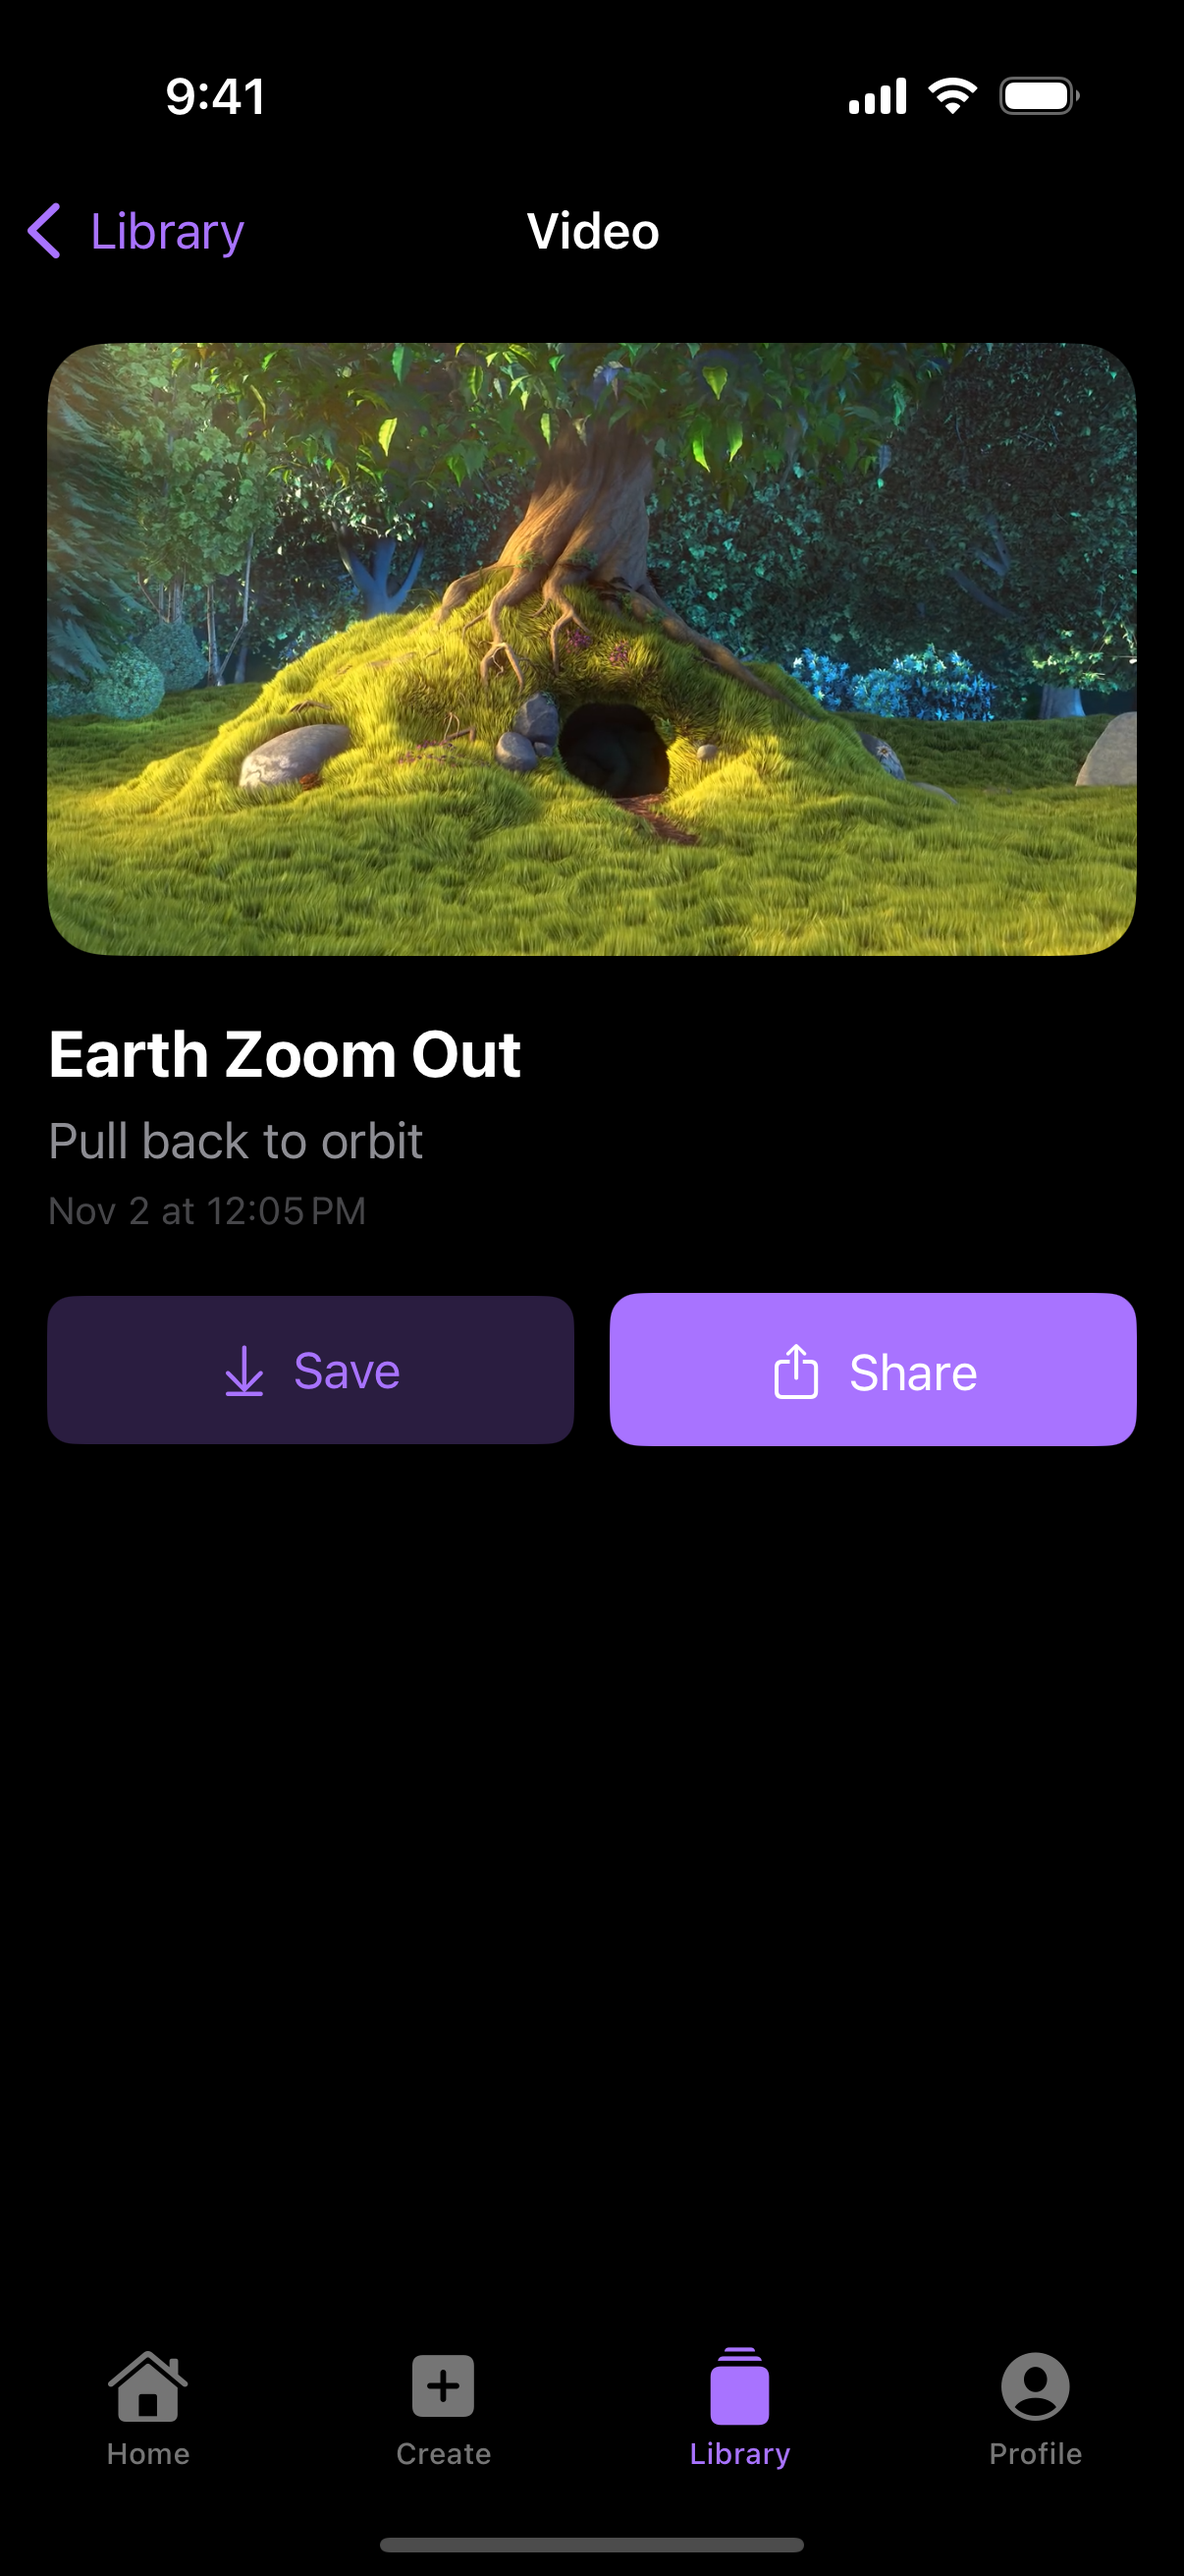
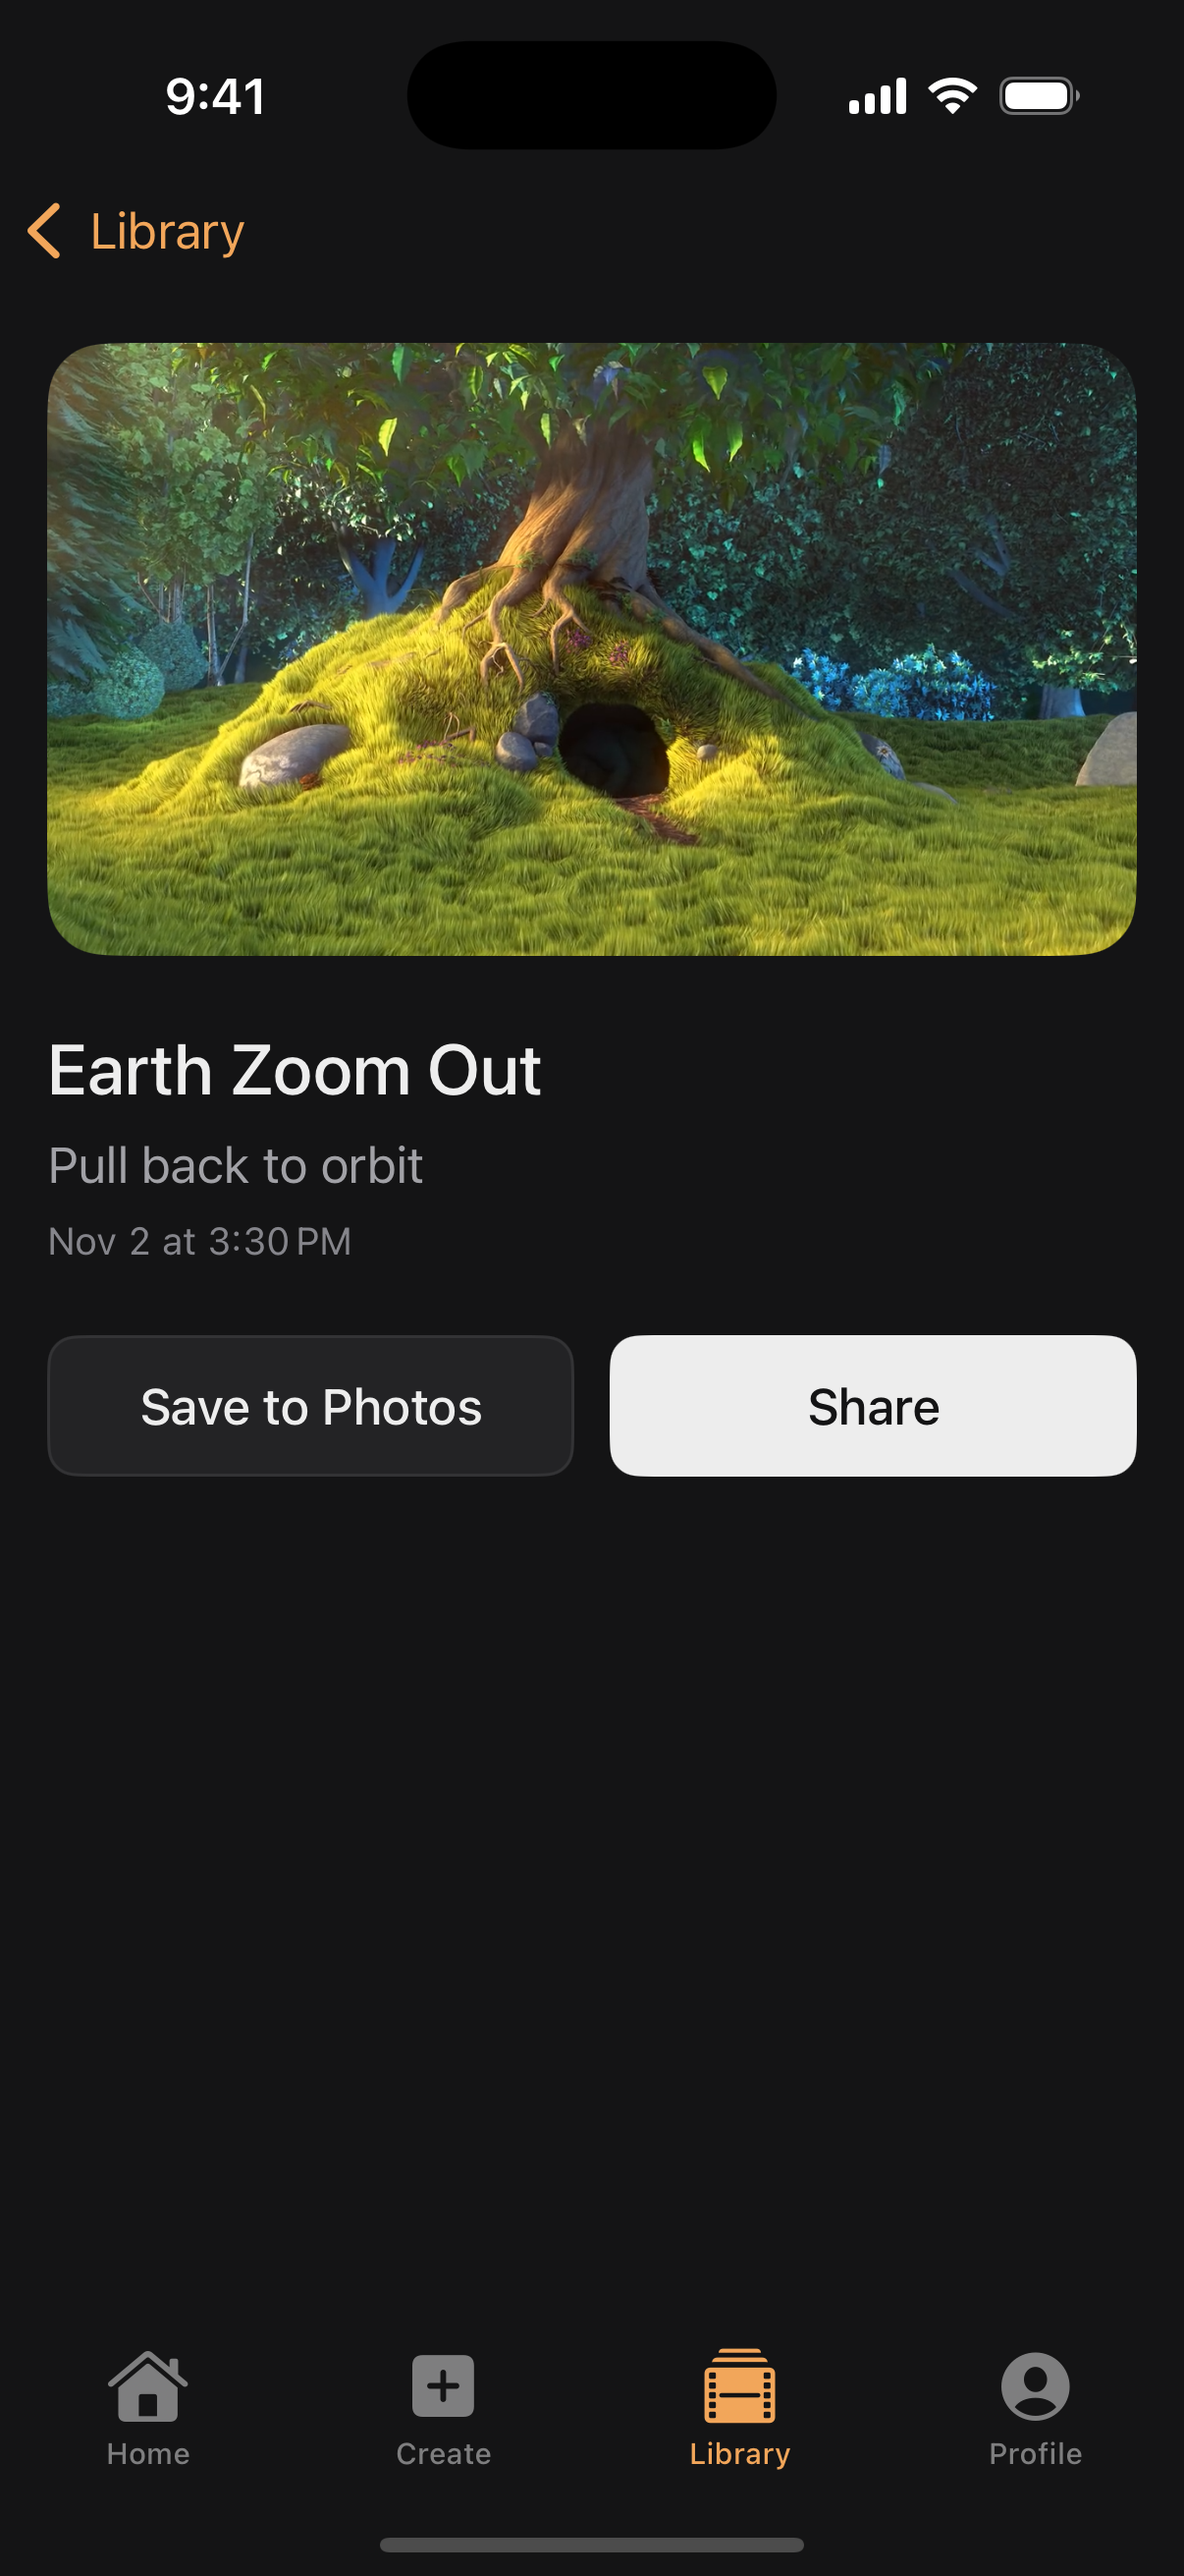
Update README screenshots and add design notes

diff --git a/README.md b/README.md
@@ -19,6 +19,20 @@ This is the first MVP of a consumer generative-video app, built with SwiftUI + U
   <img src="docs/screenshots/profile.png" width="200" alt="Profile">
 </p>
 
+## Design
+
+*Kasumi* (霞) is the haze that hangs over a landscape at dawn.
+
+- **The interface stays quiet.** Surfaces use a neutral graphite palette, so the user's photos and videos carry the color.
+- **One accent.** A warm amber, the light coming through the haze, marks selection, progress and the logo.
+- **The logo.** A sun with two bands of mist passing in front of it, after the *suyari-gasumi* bands in Japanese screen painting. It is drawn in code (`KasumiMark` in `Shared/Brand.swift`) and reused for the app icon (`scripts/make_icon.py`) and the Live Activity.
+- **A signature detail.** Viewfinder corner marks frame the photo you're about to animate.
+- **Type and motion.**
+  - System type at regular and medium weights.
+  - Monospaced figures for credits and progress.
+  - Spacing on a 4pt grid.
+  - One easing curve for every animation.
+
 ## MVP scope
 
 | Feature | Why it's in the MVP | Where |
